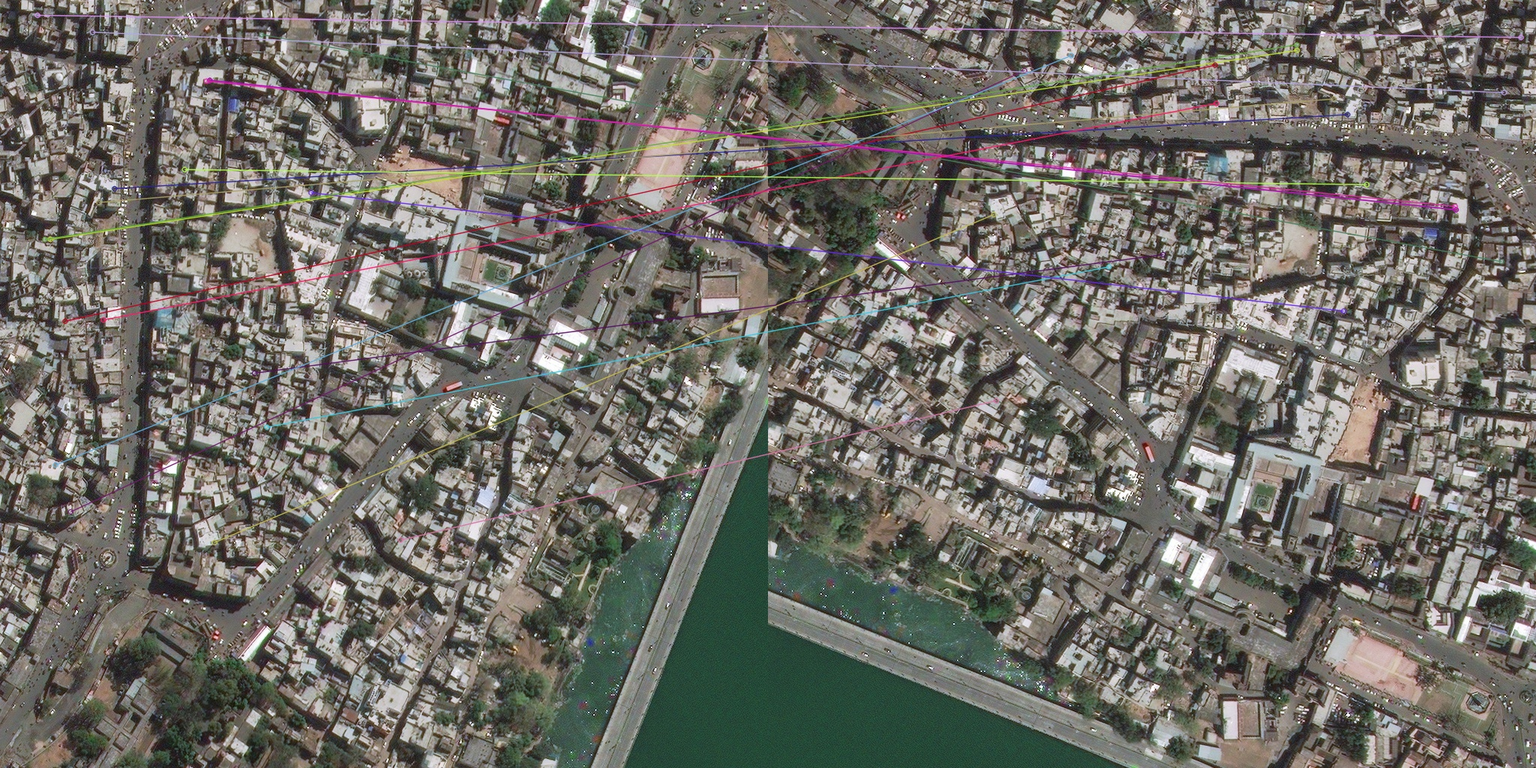
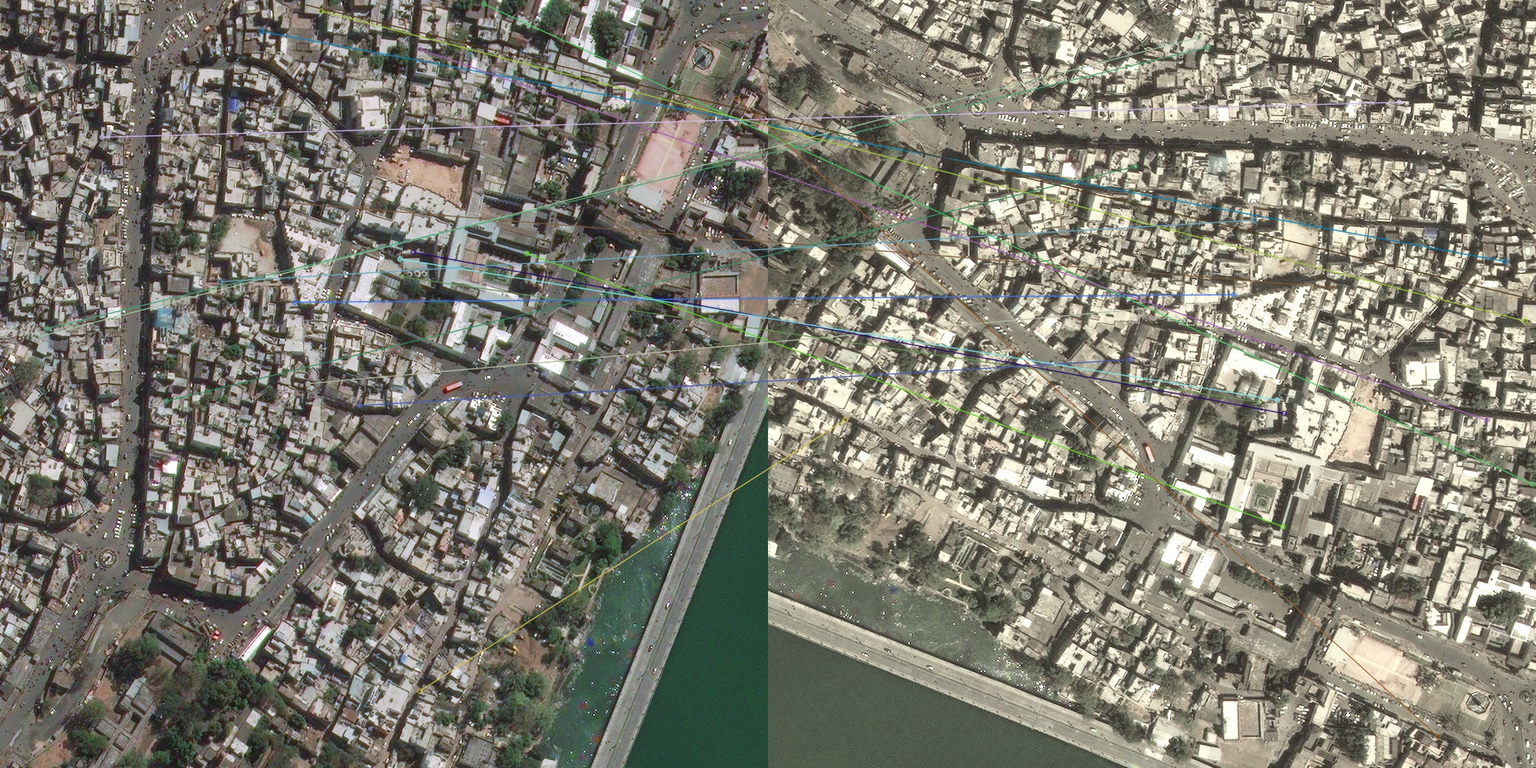
sift+stitch more generalized

diff --git a/image_matching.py b/image_matching.py
@@ -17,19 +17,27 @@ def run_sift(color1,color2):
     cv2.imwrite('siftoutput/output1.jpg',output1)
     cv2.imwrite('siftoutput/output2.jpg',output2)
 
-    bf = cv2.BFMatcher(normType=cv2.NORM_L2, crossCheck=True)
-    matches = bf.match(des1, des2)
-    matches = sorted(matches, key = lambda x:x.distance)
-    good = matches[:20]
+    bf = cv2.BFMatcher(normType=cv2.NORM_L2)
+    matches = bf.knnMatch(des1, des2, k=2)
+    good = []
+    for m,n in matches:
+        if m.distance < 0.5*n.distance:
+            good.append(m)
 
-    output3 = cv2.drawMatches(color1,kp1,color2,kp2,good,None,flags=2)
+    sortedgood = sorted(good, key = lambda x:x.distance)
+    draw = sortedgood[:20]
+    output3 = cv2.drawMatches(color1,kp1,color2,kp2,draw,None,flags=2)
     cv2.imwrite('siftoutput/output3.jpg',output3)
 
-    src_pts = np.float32([ kp1[m.queryIdx].pt for m in good ]).reshape(-1,1,2)
-    dst_pts = np.float32([ kp2[m.trainIdx].pt for m in good ]).reshape(-1,1,2)
+    if len(good) >= 4:
+        src_pts = np.float32([ kp1[m.queryIdx].pt for m in good ]).reshape(-1,1,2)
+        dst_pts = np.float32([ kp2[m.trainIdx].pt for m in good ]).reshape(-1,1,2)
+    else:
+        print('NOT ENOUGH MATCHES FOR HOMOGRAPHY')
+        return
 
-    H, mask = cv2.findHomography(src_pts, dst_pts, cv2.RANSAC,5.0)
-    dst = cv2.warpPerspective(color2,H,(img1.shape[1] + img2.shape[1], img1.shape[0]))
+    H = cv2.findHomography(src_pts, dst_pts, cv2.RANSAC,5.0)[0]
+    dst = cv2.warpPerspective(color2, H, (img1.shape[1] + img2.shape[1], img1.shape[0]))
     dst[0:img1.shape[0], 0:img1.shape[1]] = color1
     cv2.imwrite('siftoutput/stitched.jpg',dst)
 
